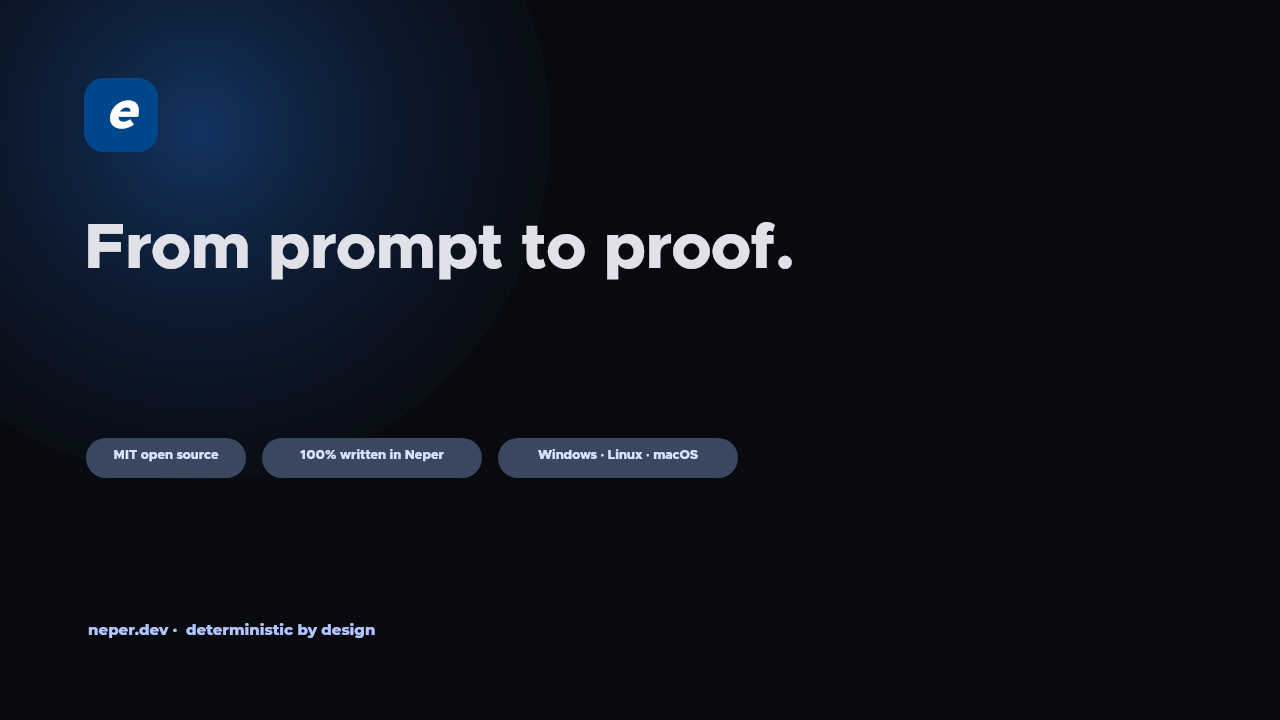
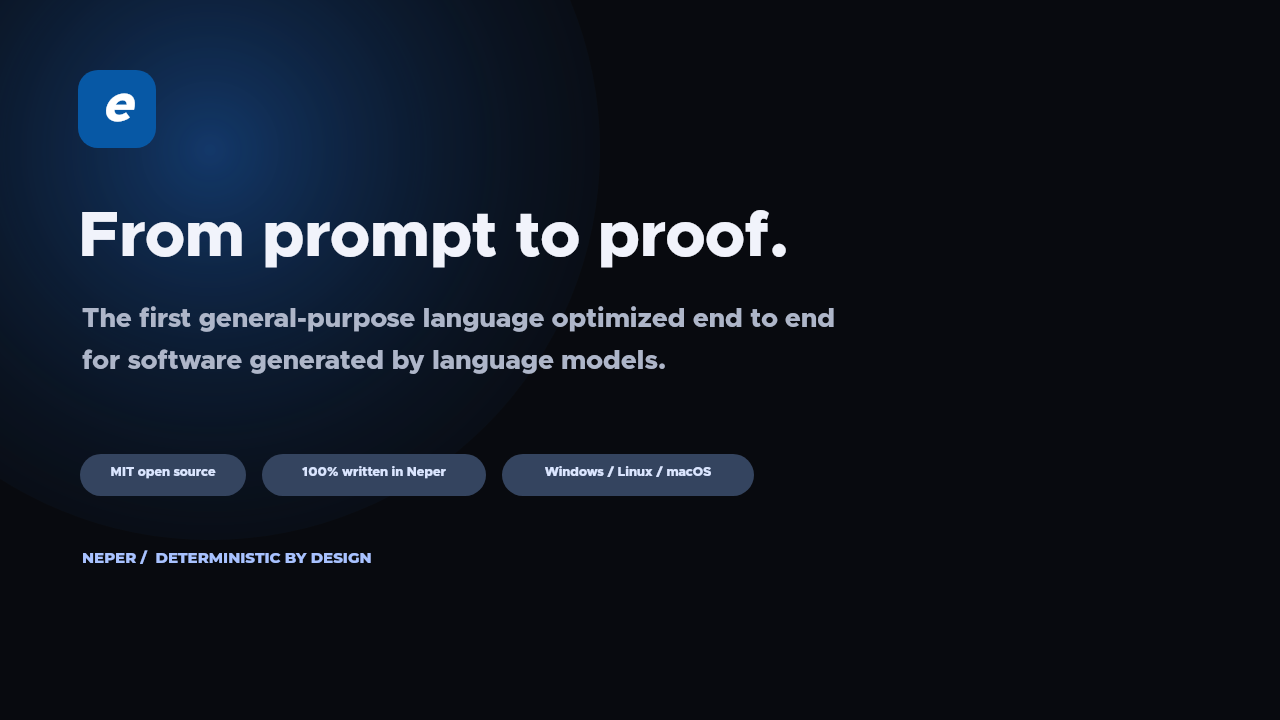
docs: rebuild Neper demo with Cillian narration

diff --git a/docs/video/neper-capabilities.jsx b/docs/video/neper-capabilities.jsx
@@ -1,50 +1,42 @@
 const W = 1280
 const H = 720
 const BG = "#080a0f"
-const SURFACE = "#121318"
-const HIGH = "#1e1f24"
-const TEXT = "#e1e2e9"
-const MUTED = "#c3c6d5"
-const BLUE = "#b3c5ff"
-const BLUE_DARK = "#00468b"
-const GREEN = "#a0f3bd"
-const GREEN_DARK = "#11522e"
-const COPPER = "#ffb692"
+const PANEL = "#12151d"
+const PANEL_2 = "#192131"
+const TEXT = "#f1f3fb"
+const MUTED = "#aeb6c9"
+const BLUE = "#a8c2ff"
+const BLUE_DARK = "#0758a5"
+const GREEN = "#8ff0b0"
+const COPPER = "#ffb08a"
 const FONT = "Metropolis"
 const MONO = "Montserrat"
 
-const enter = {
-  enter: { from: { y: 28, opacity: 0 }, duration: 0.45, easing: "house" },
-  exit: { to: { y: -18, opacity: 0 }, duration: 0.28, easing: "ease-in", anchor: "end" },
-}
+const fade = { enter: { from: { opacity: 0 }, duration: 0.28, easing: "ease-out" } }
 
-const title = (eyebrow, headline, body) => (
-  <frame width={1120} height={138} layout="none">
-    <text x={0} y={0} width={1120} height={22} fontFamily={FONT} fontSize={14} fontWeight={600} letterSpacing={1.2} color={BLUE}>{eyebrow}</text>
-    <text x={0} y={32} width={1120} height={54} fontFamily={FONT} fontSize={42} fontWeight={500} color={TEXT}>{headline}</text>
-    <text x={0} y={95} width={1080} height={38} fontFamily={FONT} fontSize={18} lineHeight={26} color={MUTED}>{body}</text>
+const heading = (number, eyebrow, headline, body) => (
+  <frame x={72} y={48} width={1136} height={148} layout="none">
+    <text x={0} y={0} width={90} height={24} fontFamily={MONO} fontSize={13} fontWeight={700} color={BLUE}>{number}</text>
+    <text x={90} y={0} width={1046} height={24} fontFamily={MONO} fontSize={13} fontWeight={700} letterSpacing={1} color={BLUE}>{eyebrow}</text>
+    <text x={0} y={34} width={1136} height={58} fontFamily={FONT} fontSize={43} fontWeight={600} color={TEXT}>{headline}</text>
+    <text x={0} y={108} width={1136} height={24} fontFamily={FONT} fontSize={16} color={MUTED}>{body}</text>
   </frame>
 )
 
-const chip = (label, x, width) => (
-  <frame x={x} y={0} width={width} height={40} layout="none" background="#39475f" radius={20}>
-    <text x={0} y={10} width={width} height={22} align="center" fontFamily={FONT} fontSize={13} fontWeight={600} color="#d6e3ff">{label}</text>
+const stat = (x, width, label, value, note, color = BLUE) => (
+  <frame x={x} y={0} width={width} height={170} layout="none">
+    <rect x={0} y={0} width={width} height={170} radius={18} fill={PANEL} />
+    <rect x={0} y={0} width={8} height={170} radius={4} fill={color} />
+    <text x={28} y={22} width={width - 50} height={20} fontFamily={MONO} fontSize={12} fontWeight={700} letterSpacing={1} color={MUTED}>{label}</text>
+    <text x={28} y={58} width={width - 50} height={52} fontFamily={FONT} fontSize={38} fontWeight={600} color={TEXT}>{value}</text>
+    <text x={28} y={122} width={width - 50} height={24} fontFamily={FONT} fontSize={14} color={MUTED}>{note}</text>
   </frame>
 )
 
-const metric = (label, value, note, x, width = 320) => (
-  <frame x={x} y={0} width={width} height={166} layout="none" background={SURFACE} radius={16}>
-    <text x={24} y={22} width={width - 48} height={20} fontFamily={FONT} fontSize={12} fontWeight={600} letterSpacing={1} color={MUTED}>{label}</text>
-    <text x={24} y={56} width={width - 48} height={54} fontFamily={FONT} fontSize={38} fontWeight={500} color={TEXT}>{value}</text>
-    <text x={24} y={118} width={width - 48} height={24} fontFamily={FONT} fontSize={14} color={MUTED}>{note}</text>
-  </frame>
-)
-
-const check = (label, y) => (
-  <frame x={0} y={y} width={480} height={34} layout="none">
-    <rect x={0} y={4} width={24} height={24} radius={12} fill={GREEN} />
-    <text x={5} y={5} width={14} height={18} align="center" fontFamily={FONT} fontSize={14} fontWeight={700} color="#08441f">✓</text>
-    <text x={38} y={5} width={430} height={22} fontFamily={FONT} fontSize={16} color={TEXT}>{label}</text>
+const pill = (x, width, label) => (
+  <frame x={x} y={0} width={width} height={42} layout="none">
+    <rect x={0} y={0} width={width} height={42} radius={21} fill="#34445f" />
+    <text x={0} y={11} width={width} height={22} align="center" fontFamily={FONT} fontSize={13} fontWeight={700} color="#dbe6ff">{label}</text>
   </frame>
 )
 
@@ -53,108 +45,107 @@ export default async ({ project }) => {
   const forge = await p.add("forge.png")
 
   p.compose(
-    <frame width={W} height={H} layout="none" background={BG} motion={enter}>
-      <rect x={-150} y={-220} width={700} height={700} radius={350} fill={{kind:"radial",stops:[{offset:0,color:"#173f78",opacity:.78},{offset:1,color:BG,opacity:0}]}} />
-      <frame x={84} y={78} width={74} height={74} layout="none" background={BLUE_DARK} radius={20}>
-        <text x={0} y={4} width={74} height={68} align="center" fontFamily={FONT} fontSize={52} fontWeight={500} italic color="#ffffff">e</text>
-      </frame>
-      <text x={84} y={210} width={1100} height={82} fontFamily={FONT} fontSize={64} fontWeight={500} color={TEXT}>From prompt to proof.</text>
-      <text x={88} y={306} width={1020} height={74} fontFamily={FONT} fontSize={26} lineHeight={36} color={MUTED}>The first general-purpose programming language optimized end to end for LLM-generated software.</text>
-      <frame x={86} y={438} width={900} height={40} layout="none">{chip("MIT open source",0,160)}{chip("100% written in Neper",176,220)}{chip("Windows · Linux · macOS",412,240)}</frame>
-      <text x={88} y={620} width={1080} height={28} fontFamily={MONO} fontSize={15} color={BLUE}>neper.dev  ·  deterministic by design</text>
+    <frame width={W} height={H} layout="none" background={BG} motion={fade}>
+      <rect x={-180} y={-240} width={780} height={780} radius={390} fill={{kind:"radial",stops:[{offset:0,color:"#143d73",opacity:.9},{offset:1,color:BG,opacity:0}]}} />
+      <frame x={78} y={70} width={78} height={78} layout="none"><rect x={0} y={0} width={78} height={78} radius={20} fill={BLUE_DARK} /><text x={0} y={5} width={78} height={66} align="center" fontFamily={FONT} fontSize={52} fontWeight={600} italic color="#ffffff">e</text></frame>
+      <text x={78} y={198} width={1120} height={82} fontFamily={FONT} fontSize={64} fontWeight={600} color={TEXT}>From prompt to proof.</text>
+      <text x={82} y={304} width={1110} height={34} fontFamily={FONT} fontSize={27} color={MUTED}>The first general-purpose language optimized end to end</text>
+      <text x={82} y={346} width={1110} height={34} fontFamily={FONT} fontSize={27} color={MUTED}>for software generated by language models.</text>
+      <frame x={80} y={454} width={760} height={42} layout="none">{pill(0,166,"MIT open source")}{pill(182,224,"100% written in Neper")}{pill(422,252,"Windows / Linux / macOS")}</frame>
+      <text x={82} y={548} width={1080} height={28} fontFamily={MONO} fontSize={15} fontWeight={700} color={BLUE}>NEPER  /  DETERMINISTIC BY DESIGN</text>
     </frame>,
-    { at: 0, dur: 3.5, name: "From prompt to proof" }
+    { at: 0, dur: 8.5, name: "From prompt to proof" }
   )
 
   p.compose(
-    <frame width={W} height={H} layout="none" background={BG} motion={enter}>
-      <frame x={80} y={55} width={1120} height={138} layout="none">{title("01  /  PROMPT → NATIVE", "One short program. One tiny binary.", "No VM, no garbage collector, no LLVM runtime.")}</frame>
-      <frame x={80} y={226} width={710} height={390} layout="none" background="#0c0e14" radius={18} shadow={{x:0,y:16,blur:36,color:"#00000088"}}>
-        <rect x={0} y={0} width={710} height={52} radius={18} fill={HIGH} />
-        <rect x={0} y={34} width={710} height={18} fill={HIGH} />
-        <text x={24} y={16} width={650} height={22} fontFamily={MONO} fontSize={13} color={MUTED}>hello.e — neper</text>
-        <text x={30} y={82} width={640} height={250} fontFamily={MONO} fontSize={20} lineHeight={34} color={TEXT}>{`use e.io\n\nfn main(args: []str) -> err {\n    try io.print("hello, neper\\n")\n    ret ok\n}\n\n$ neper run hello.e`}</text>
-        <text x={30} y={342} width={650} height={30} fontFamily={MONO} fontSize={18} fontWeight={600} color={GREEN}>(34 msec, 6144 bytes)   hello, neper</text>
+    <frame width={W} height={H} layout="none" background={BG} motion={fade}>
+      {heading("01", "PROMPT > NATIVE", "One short program. One tiny binary.", "No VM, garbage collector, or LLVM runtime between source and native code.")}
+      <frame x={72} y={220} width={720} height={356} layout="none">
+        <rect x={0} y={0} width={720} height={356} radius={18} fill="#0d1017" /><rect x={0} y={0} width={720} height={48} radius={18} fill="#202634" /><rect x={0} y={30} width={720} height={18} fill="#202634" />
+        <text x={24} y={14} width={670} height={22} fontFamily={MONO} fontSize={13} color={MUTED}>hello.e / neper</text>
+        <text x={28} y={72} width={660} height={24} fontFamily={MONO} fontSize={19} color={TEXT}>use e.io</text>
+        <text x={28} y={112} width={660} height={24} fontFamily={MONO} fontSize={19} color={TEXT}>{"fn main(args: []str) -> err {"}</text>
+        <text x={28} y={142} width={660} height={24} fontFamily={MONO} fontSize={19} color={TEXT}>{'    try io.print("hello, neper\\n")'}</text>
+        <text x={28} y={172} width={660} height={24} fontFamily={MONO} fontSize={19} color={TEXT}>    ret ok</text>
+        <text x={28} y={202} width={660} height={24} fontFamily={MONO} fontSize={19} color={TEXT}>{"}"}</text>
+        <text x={28} y={252} width={660} height={24} fontFamily={MONO} fontSize={19} color={TEXT}>$ neper run hello.e</text>
+        <text x={28} y={310} width={660} height={24} fontFamily={MONO} fontSize={16} fontWeight={700} color={GREEN}>(34 msec, 6144 bytes)   hello, neper</text>
       </frame>
-      <frame x={826} y={226} width={374} height={390} layout="none">
-        <frame x={0} y={0} width={374} height={112} layout="none" background={BLUE_DARK} radius={18}><text x={24} y={20} width={326} height={50} fontFamily={FONT} fontSize={36} color="#ffffff">34 ms</text><text x={24} y={72} width={326} height={22} fontFamily={FONT} fontSize={14} color="#dae2ff">prompt to running program</text></frame>
-        <frame x={0} y={130} width={374} height={112} layout="none" background={SURFACE} radius={18}><text x={24} y={20} width={326} height={50} fontFamily={FONT} fontSize={36} color={TEXT}>6,144 B</text><text x={24} y={72} width={326} height={22} fontFamily={FONT} fontSize={14} color={MUTED}>native executable</text></frame>
-        <frame x={0} y={260} width={374} height={112} layout="none" background={GREEN_DARK} radius={18}><text x={24} y={20} width={326} height={50} fontFamily={FONT} fontSize={36} color={GREEN}>0 VM</text><text x={24} y={72} width={326} height={22} fontFamily={FONT} fontSize={14} color={GREEN}>ship the program, not the toolchain</text></frame>
+      <frame x={824} y={220} width={384} height={356} layout="none">
+        {stat(0,384,"BUILD","34 ms","prompt to running program",BLUE)}
+        <frame x={0} y={186} width={384} height={170} layout="none"><rect x={0} y={0} width={384} height={170} radius={18} fill={PANEL} /><rect x={0} y={0} width={8} height={170} radius={4} fill={GREEN} /><text x={28} y={22} width={330} height={20} fontFamily={MONO} fontSize={12} fontWeight={700} color={MUTED}>EXECUTABLE</text><text x={28} y={58} width={330} height={52} fontFamily={FONT} fontSize={38} fontWeight={600} color={TEXT}>6,144 B</text><text x={28} y={122} width={330} height={24} fontFamily={FONT} fontSize={14} color={MUTED}>zero VM · native artifact</text></frame>
       </frame>
     </frame>,
-    { at: 3.5, dur: 4.5, name: "Native build" }
+    { at: 8.5, dur: 8.5, name: "Native build" }
   )
 
   p.compose(
-    <frame width={W} height={H} layout="none" background={BG} motion={enter}>
-      <frame x={80} y={58} width={1120} height={138} layout="none">{title("02  /  ULTRA BY DESIGN", "One million lines. Under one second.", "Compile at thought speed, then keep only the bits the program can reach.")}</frame>
-      <frame x={80} y={238} width={1120} height={220} layout="none">{metric("THROUGHPUT","1M+ LOC","per second, per core",0,354)}{metric("REBUILD","< 1 sec","whole-project target",383,354)}{metric("DEAD WEIGHT","0 bytes","extreme dead-code elimination",766,354)}</frame>
-      <frame x={80} y={506} width={1120} height={90} layout="none" background={SURFACE} radius={16}>
-        <text x={24} y={18} width={1000} height={22} fontFamily={FONT} fontSize={13} fontWeight={600} color={MUTED}>WHOLE-PROJECT BUILD</text>
-        <rect x={24} y={52} width={1072} height={10} radius={5} fill="#39475f" />
-        <rect x={24} y={52} width={1010} height={10} radius={5} fill={BLUE} animate={[{property:"scaleX",from:0,to:1,at:0,duration:1.3,easing:"house"}]} />
-      </frame>
-      <text x={80} y={630} width={1120} height={24} fontFamily={MONO} fontSize={14} color={COPPER}>direct emitter · own linker · reachable code only · no LLVM</text>
+    <frame width={W} height={H} layout="none" background={BG} motion={fade}>
+      {heading("02", "ULTRA BY DESIGN", "One million lines. Under one second.", "Compile at thought speed, then keep only the functions, types, constants, and bytes the program can reach.")}
+      <frame x={72} y={232} width={1136} height={170} layout="none">{stat(0,354,"THROUGHPUT","1M+ LOC","per second, per core",BLUE)}{stat(391,354,"REBUILD","< 1 sec","whole-project target",COPPER)}{stat(782,354,"DEAD WEIGHT","0 bytes","extreme elimination",GREEN)}</frame>
+      <frame x={72} y={438} width={1136} height={118} layout="none"><rect x={0} y={0} width={1136} height={118} radius={18} fill={PANEL} /><text x={28} y={23} width={1050} height={22} fontFamily={MONO} fontSize={13} fontWeight={700} color={MUTED}>WHOLE-PROJECT BUILD</text><rect x={28} y={66} width={1080} height={12} radius={6} fill="#334159" /><rect x={28} y={66} width={1026} height={12} radius={6} fill={BLUE} animate={[{property:"scaleX",from:0,to:1,at:.4,duration:1.6,easing:"house"}]} /></frame>
+      <text x={74} y={584} width={1130} height={24} fontFamily={MONO} fontSize={14} color={COPPER}>DIRECT EMITTER  ·  OWN LINKER  ·  REACHABLE CODE ONLY  ·  NO LLVM</text>
     </frame>,
-    { at: 8, dur: 4, name: "Ultra performance" }
+    { at: 17, dur: 7.5, name: "Ultra performance" }
   )
 
   p.compose(
-    <frame width={W} height={H} layout="none" background={BG} motion={enter}>
-      <frame x={80} y={55} width={1120} height={138} layout="none">{title("03  /  ONE MODULE, EVERY PROCESSOR", "Write once. Step on CPU. Launch on GPU.", "The same typed kernel targets CPU, Vulkan, or CUDA without changing languages.")}</frame>
-      <frame x={80} y={224} width={650} height={382} layout="none" background="#0c0e14" radius={18}>
-        <text x={28} y={32} width={590} height={300} fontFamily={MONO} fontSize={18} lineHeight={31} color={TEXT}>{`use e.gpu\n\n@gpu(256)\nfn saxpy(a: f32, x: []const f32, y: []f32) {\n    let i = usize(gpu.gid.x)\n    if i < x.len { y[i] = a*x[i] + y[i] }\n}\n\ngpu.launch[saxpy](q, grid, 2.0, dx, dy)`}</text>
+    <frame width={W} height={H} layout="none" background={BG} motion={fade}>
+      {heading("03", "ONE MODULE, EVERY PROCESSOR", "Write once. Step on CPU. Launch on GPU.", "The same typed kernel targets CPU, Vulkan, or CUDA without changing languages or build systems.")}
+      <frame x={72} y={218} width={730} height={364} layout="none">
+        <rect x={0} y={0} width={730} height={364} radius={18} fill="#0d1017" />
+        <text x={28} y={28} width={674} height={24} fontFamily={MONO} fontSize={18} color={TEXT}>use e.gpu</text>
+        <text x={28} y={70} width={674} height={24} fontFamily={MONO} fontSize={18} color={GREEN}>@gpu(256)</text>
+        <text x={28} y={100} width={674} height={24} fontFamily={MONO} fontSize={18} color={TEXT}>{"fn saxpy(a: f32, x: []const f32, y: []f32) {"}</text>
+        <text x={28} y={130} width={674} height={24} fontFamily={MONO} fontSize={18} color={TEXT}>    let i = usize(gpu.gid.x)</text>
+        <text x={28} y={160} width={674} height={24} fontFamily={MONO} fontSize={18} color={TEXT}>{"    if i < x.len { y[i] = a*x[i] + y[i] }"}</text>
+        <text x={28} y={190} width={674} height={24} fontFamily={MONO} fontSize={18} color={TEXT}>{"}"}</text>
+        <text x={28} y={250} width={674} height={24} fontFamily={MONO} fontSize={18} color={BLUE}>gpu.launch[saxpy](q, grid, 2.0, dx, dy)</text>
       </frame>
-      <frame x={774} y={224} width={426} height={382} layout="none">
-        <frame x={0} y={0} width={426} height={102} layout="none" background={BLUE_DARK} radius={18}><text x={24} y={24} width={120} height={42} fontFamily={FONT} fontSize={28} color="#ffffff">CPU</text><text x={142} y={30} width={250} height={30} fontFamily={FONT} fontSize={15} color="#dae2ff">exact deterministic debugging</text></frame>
-        <frame x={0} y={122} width={426} height={102} layout="none" background={SURFACE} radius={18}><text x={24} y={24} width={150} height={42} fontFamily={FONT} fontSize={28} color={BLUE}>Vulkan</text><text x={174} y={30} width={218} height={30} fontFamily={FONT} fontSize={15} color={MUTED}>portable GPU compute</text></frame>
-        <frame x={0} y={244} width={426} height={102} layout="none" background={SURFACE} radius={18}><text x={24} y={24} width={150} height={42} fontFamily={FONT} fontSize={28} color={GREEN}>CUDA</text><text x={174} y={30} width={218} height={30} fontFamily={FONT} fontSize={15} color={MUTED}>native NVIDIA path</text></frame>
+      <frame x={834} y={218} width={374} height={364} layout="none">
+        <rect x={0} y={0} width={374} height={104} radius={18} fill={BLUE_DARK} /><text x={24} y={22} width={120} height={42} fontFamily={FONT} fontSize={28} fontWeight={600} color="#ffffff">CPU</text><text x={24} y={68} width={326} height={22} fontFamily={FONT} fontSize={14} color="#dbe6ff">exact deterministic debugging</text>
+        <rect x={0} y={130} width={374} height={104} radius={18} fill={PANEL} /><text x={24} y={152} width={160} height={42} fontFamily={FONT} fontSize={28} fontWeight={600} color={BLUE}>Vulkan</text><text x={24} y={198} width={326} height={22} fontFamily={FONT} fontSize={14} color={MUTED}>portable GPU compute</text>
+        <rect x={0} y={260} width={374} height={104} radius={18} fill={PANEL} /><text x={24} y={282} width={160} height={42} fontFamily={FONT} fontSize={28} fontWeight={600} color={GREEN}>CUDA</text><text x={24} y={328} width={326} height={22} fontFamily={FONT} fontSize={14} color={MUTED}>native NVIDIA path</text>
       </frame>
     </frame>,
-    { at: 12, dur: 4.25, name: "CPU and GPU" }
+    { at: 24.5, dur: 6.5, name: "CPU and GPU" }
   )
 
   p.compose(
-    <frame width={W} height={H} layout="none" background={BG} motion={enter}>
-      <text x={80} y={46} width={1120} height={28} fontFamily={FONT} fontSize={14} fontWeight={600} letterSpacing={1.2} color={BLUE}>04  /  NATIVE UI</text>
-      <text x={80} y={82} width={1120} height={52} fontFamily={FONT} fontSize={40} fontWeight={500} color={TEXT}>112 controls. One coherent system.</text>
-      <frame x={84} y={156} width={1112} height={500} layout="none" background={SURFACE} radius={20} shadow={{x:0,y:18,blur:44,color:"#00000099"}} animate={[{property:"scale",from:.965,to:1.01,at:0,duration:4,easing:"smooth"}]}>
-        <media file={forge} x={18} y={18} width={1076} height={464} fit="contain" radius={14} />
+    <frame width={W} height={H} layout="none" background={BG} motion={fade}>
+      {heading("04", "BATTERIES INCLUDED", "An ultra-rich standard library.", "One versioned system for algorithms, networking, crypto, codecs, data, ML, GPU compute, and native UI.")}
+      <frame x={72} y={218} width={344} height={366} layout="none">
+        <rect x={0} y={0} width={344} height={108} radius={18} fill={PANEL} /><text x={24} y={20} width={296} height={48} fontFamily={FONT} fontSize={34} fontWeight={600} color={TEXT}>7,963</text><text x={24} y={72} width={296} height={22} fontFamily={FONT} fontSize={14} color={MUTED}>function signatures</text>
+        <rect x={0} y={129} width={344} height={108} radius={18} fill={PANEL} /><text x={24} y={149} width={296} height={48} fontFamily={FONT} fontSize={34} fontWeight={600} color={TEXT}>1,232</text><text x={24} y={201} width={296} height={22} fontFamily={FONT} fontSize={14} color={MUTED}>standard algorithms</text>
+        <rect x={0} y={258} width={344} height={108} radius={18} fill={BLUE_DARK} /><text x={24} y={278} width={296} height={48} fontFamily={FONT} fontSize={34} fontWeight={600} color="#ffffff">112</text><text x={24} y={330} width={296} height={22} fontFamily={FONT} fontSize={14} color="#dbe6ff">native UI controls</text>
       </frame>
+      <frame x={448} y={218} width={760} height={366} layout="none"><rect x={0} y={0} width={760} height={366} radius={18} fill={PANEL_2} /><media file={forge} x={16} y={16} width={728} height={334} fit="contain" radius={12} /></frame>
     </frame>,
-    { at: 16.25, dur: 4.5, name: "Neper Forge" }
+    { at: 31, dur: 10.25, name: "Library and native UI" }
   )
 
   p.compose(
-    <frame width={W} height={H} layout="none" background={BG} motion={enter}>
-      <frame x={80} y={55} width={1120} height={138} layout="none">{title("05  /  VERIFIED SOFTWARE", "Every change ends in evidence.", "The compiler connects intent, source, edits, tests, dependencies, and native artifacts.")}</frame>
-      <frame x={80} y={225} width={560} height={390} layout="none" background={BLUE_DARK} radius={24}>
-        <text x={34} y={28} width={480} height={32} fontFamily={FONT} fontSize={22} fontWeight={600} color="#ffffff">Verification receipt</text>
-        <text x={34} y={70} width={470} height={22} fontFamily={MONO} fontSize={13} color="#dae2ff">sha256:7fc2a091…e44ba91e</text>
-        <frame x={34} y={118} width={480} height={210} layout="none">{check("Snapshot is immutable",0)}{check("248 tests passed",46)}{check("0 unsafe boundaries",92)}{check("Stage 2 equals stage 3",138)}</frame>
-        <text x={34} y={346} width={480} height={22} fontFamily={FONT} fontSize={13} color="#dae2ff">neper 0.9.0 · x64 · reproducible</text>
+    <frame width={W} height={H} layout="none" background={BG} motion={fade}>
+      <rect x={-220} y={-290} width={820} height={820} radius={410} fill={{kind:"radial",stops:[{offset:0,color:"#143d73",opacity:.82},{offset:1,color:BG,opacity:0}]}} />
+      <text x={72} y={56} width={1136} height={24} fontFamily={MONO} fontSize={13} fontWeight={700} letterSpacing={1} color={BLUE}>05  /  VERIFIABLE SOFTWARE</text>
+      <text x={72} y={104} width={1136} height={76} fontFamily={FONT} fontSize={58} fontWeight={600} color={TEXT}>From prompt to proof.</text>
+      <text x={76} y={196} width={1110} height={28} fontFamily={FONT} fontSize={21} color={MUTED}>Every source snapshot, semantic edit, dependency, unsafe boundary,</text>
+      <text x={76} y={229} width={1110} height={28} fontFamily={FONT} fontSize={21} color={MUTED}>test, and native artifact is connected by verifiable hashes.</text>
+      <frame x={72} y={312} width={1136} height={112} layout="none">
+        <rect x={0} y={0} width={190} height={112} radius={18} fill={PANEL} /><text x={0} y={28} width={190} height={28} align="center" fontFamily={FONT} fontSize={18} fontWeight={700} color={TEXT}>PROMPT</text><text x={0} y={68} width={190} height={20} align="center" fontFamily={MONO} fontSize={12} color={BLUE}>intent hash</text>
+        <text x={202} y={38} width={44} height={32} align="center" fontFamily={FONT} fontSize={28} color={BLUE}>&gt;</text>
+        <rect x={258} y={0} width={190} height={112} radius={18} fill={PANEL} /><text x={258} y={28} width={190} height={28} align="center" fontFamily={FONT} fontSize={18} fontWeight={700} color={TEXT}>SOURCE</text><text x={258} y={68} width={190} height={20} align="center" fontFamily={MONO} fontSize={12} color={BLUE}>snapshot hash</text>
+        <text x={460} y={38} width={44} height={32} align="center" fontFamily={FONT} fontSize={28} color={BLUE}>&gt;</text>
+        <rect x={516} y={0} width={190} height={112} radius={18} fill={PANEL} /><text x={516} y={28} width={190} height={28} align="center" fontFamily={FONT} fontSize={18} fontWeight={700} color={TEXT}>TESTS</text><text x={516} y={68} width={190} height={20} align="center" fontFamily={MONO} fontSize={12} color={GREEN}>248 passed</text>
+        <text x={718} y={38} width={44} height={32} align="center" fontFamily={FONT} fontSize={28} color={BLUE}>&gt;</text>
+        <rect x={774} y={0} width={362} height={112} radius={18} fill={BLUE_DARK} /><text x={774} y={26} width={362} height={30} align="center" fontFamily={FONT} fontSize={20} fontWeight={700} color="#ffffff">NATIVE ARTIFACT</text><text x={774} y={68} width={362} height={20} align="center" fontFamily={MONO} fontSize={12} color="#dbe6ff">signed verification receipt</text>
       </frame>
-      <frame x={676} y={225} width={524} height={390} layout="none">
-        <frame x={0} y={0} width={524} height={114} layout="none" background={SURFACE} radius={18}><text x={24} y={20} width={460} height={42} fontFamily={FONT} fontSize={30} color={TEXT}>26 LLM-native features</text><text x={24} y={72} width={460} height={22} fontFamily={FONT} fontSize={14} color={MUTED}>context · diagnostics · repairs · receipts</text></frame>
-        <frame x={0} y={134} width={524} height={114} layout="none" background={SURFACE} radius={18}><text x={24} y={20} width={460} height={42} fontFamily={FONT} fontSize={30} color={TEXT}>7,963 functions</text><text x={24} y={72} width={460} height={22} fontFamily={FONT} fontSize={14} color={MUTED}>one ultra-rich standard library</text></frame>
-        <frame x={0} y={268} width={524} height={114} layout="none" background={SURFACE} radius={18}><text x={24} y={20} width={460} height={42} fontFamily={FONT} fontSize={30} color={TEXT}>1,232 algorithms</text><text x={24} y={72} width={460} height={22} fontFamily={FONT} fontSize={14} color={MUTED}>versioned, fenced, fixture-driven</text></frame>
-      </frame>
+      <frame x={72} y={474} width={760} height={42} layout="none">{pill(0,164,"MIT open source")}{pill(180,210,"100% self-hosted")}{pill(406,238,"Windows · Linux · macOS")}</frame>
+      <text x={74} y={552} width={1130} height={26} fontFamily={MONO} fontSize={14} fontWeight={700} color={GREEN}>26 LLM-NATIVE FEATURES  ·  DETERMINISTIC  ·  CONTENT-ADDRESSED</text>
     </frame>,
-    { at: 20.75, dur: 4.5, name: "Verification proof" }
+    { at: 41.25, dur: 9, name: "From prompt to proof" }
   )
 
-  p.compose(
-    <frame width={W} height={H} layout="none" background={BG} motion={{enter:{from:{scale:.94,opacity:0},duration:.5,easing:"house"}}}>
-      <rect x={-120} y={-280} width={800} height={800} radius={400} fill={{kind:"radial",stops:[{offset:0,color:"#173f78",opacity:.8},{offset:1,color:BG,opacity:0}]}} />
-      <frame x={603} y={104} width={74} height={74} layout="none" background={BLUE_DARK} radius={20}><text x={0} y={4} width={74} height={68} align="center" fontFamily={FONT} fontSize={52} fontWeight={500} italic color="#ffffff">e</text></frame>
-      <text x={80} y={228} width={1120} height={78} align="center" fontFamily={FONT} fontSize={54} fontWeight={500} color={TEXT}>Build what models can prove.</text>
-      <text x={160} y={330} width={960} height={40} align="center" fontFamily={FONT} fontSize={22} color={MUTED}>MIT open source · 100% Neper · multiplatform</text>
-      <frame x={281} y={424} width={718} height={40} layout="none">{chip("github.com/nebosa-company/neper",0,342)}{chip("discord.gg/AdRneEsbCu",360,258)}</frame>
-      <text x={80} y={620} width={1120} height={24} align="center" fontFamily={MONO} fontSize={14} color={BLUE}>neper — from prompt to proof</text>
-    </frame>,
-    { at: 25.25, dur: 3.25, name: "Close" }
-  )
-
-  await p.frame(1.8, "renders/neper-capabilities-poster.png")
-  await p.render("renders/neper-capabilities.mp4", { bitrate: 5000000, concurrency: 4 })
+  await p.frame(2, "renders/neper-capabilities-poster.png")
+  await p.render("renders/neper-capabilities-clean.mp4", { bitrate: 6000000, concurrency: 4 })
 }

diff --git a/docs/progress.html b/docs/progress.html
@@ -30,7 +30,7 @@ main{max-width:64rem;margin:auto;padding:clamp(2rem,6vw,5rem) 1.25rem}header{mar
 and <a href="work-done.jsonl">completion ledger</a>; module and UI totals are computed
 from their machine-readable plans and committed source.</p>
 <footer>Generated by <code>scripts/render_progress.py</code> at
-<code>33e3c14c</code> (2026-09-25).</footer>
+<code>0eab99c3</code> (2026-09-25).</footer>
 </main>
 </body>
 </html>
